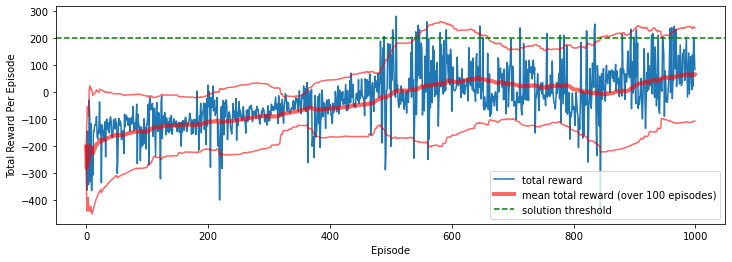
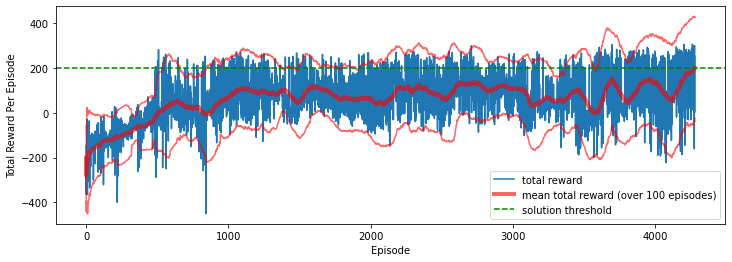
update the convergence history

diff --git a/_posts/2020-08-01-lunar-lander.md b/_posts/2020-08-01-lunar-lander.md
@@ -21,7 +21,7 @@ The code is taken from the official [PyTorch example](https://github.com/pytorch
 import gym
 import numpy as np
 from itertools import count
-from collections import deque, namedtuple
+from collections import deque
 import matplotlib.pylab as plt
 from tqdm.notebook import tnrange as trange
 import torch
@@ -63,7 +63,7 @@ print(f"Observation space size: {num_observations}, # actions: {num_actions}")
     Observation space size: 8, # actions: 4
     
 
-We define the main class, which contains the (simple) neural network that is used to approximate the policy. 
+We define the main class, which contains the (simple) neural network that is used to approximate the policy. The network won't learn unless the numbers it operates on are reasonably scaled; in our case we aim to scale the sum of the returns to be normal. As we don't know the mean and the standard deviation, we estimate it by the values we get during the training phase.
 
 
 ```python
@@ -101,18 +101,19 @@ class Policy(nn.Module):
         return action.item()
 
     def finish_episode(self):
-        R = 0
+        G = 0
         policy_loss = []
         returns = []
         for r in self.rewards[::-1]:
-            R = r + GAMMA * R
-            returns.insert(0, R)
+            G = r + GAMMA * G
+            returns.insert(0, F)
             self.num_returns += 1
-            self.sum_returns += R
-            self.sum_returns_squared += R**2
+            self.sum_returns += G
+            self.sum_returns_squared += G**2
         returns = torch.tensor(returns)
         returns_mean = self.sum_returns / self.num_returns
         returns_std_dev = np.sqrt(self.sum_returns_squared / self.num_returns - returns_mean**2)
+        #returns = (returns - returns.mean()) / (returns.std() + self.eps)
         returns = (returns - returns_mean) / (returns_std_dev + self.eps)
         
         for log_prob, R in zip(self.saved_log_probs, returns):
@@ -138,9 +139,9 @@ running_std_devs = []
 episode_lengths = []
 episode_rewards = []
 
-for i_episode in range(1, 1_001):
-    state, episode_reward = env.reset(), 0
-    for t in range(1, 10000):  # Don't infinite loop while learning
+for i_episode in range(1, 10_001):
+    state, episode_reward = env.reset(), 0.0
+    for t in range(1, 10_000):  # Don't infinite loop while learning
         action = reinforce.select_action(state)
         state, reward, done, _ = env.step(action)
         reinforce.rewards.append(reward)
@@ -165,6 +166,10 @@ for i_episode in range(1, 1_001):
     # log results
     if i_episode % LOG_INTERVAL == 0:
         print(f"Episode {i_episode}\tRunning average reward: {mean:.2f}, std dev: {std_dev:.2f}")
+
+    if mean > env.spec.reward_threshold:
+        print(f"Solved! Running reward is now {mean} and the last episode runs to {t} time steps!")
+        break
 ```
 
     Episode 100	Running average reward: -146.99, std dev: 67.67
@@ -177,9 +182,42 @@ for i_episode in range(1, 1_001):
     Episode 800	Running average reward: 12.99, std dev: 78.04
     Episode 900	Running average reward: 19.66, std dev: 108.44
     Episode 1000	Running average reward: 66.10, std dev: 88.15
+    Episode 1100	Running average reward: 108.77, std dev: 88.07
+    Episode 1200	Running average reward: 90.31, std dev: 84.93
+    Episode 1300	Running average reward: 86.01, std dev: 84.10
+    Episode 1400	Running average reward: 99.33, std dev: 48.19
+    Episode 1500	Running average reward: 50.61, std dev: 83.39
+    Episode 1600	Running average reward: 112.47, std dev: 60.89
+    Episode 1700	Running average reward: 99.22, std dev: 58.40
+    Episode 1800	Running average reward: 60.37, std dev: 73.11
+    Episode 1900	Running average reward: 58.38, std dev: 69.03
+    Episode 2000	Running average reward: 61.87, std dev: 85.73
+    Episode 2100	Running average reward: 39.67, std dev: 95.84
+    Episode 2200	Running average reward: 111.14, std dev: 93.01
+    Episode 2300	Running average reward: 98.93, std dev: 91.58
+    Episode 2400	Running average reward: 104.73, std dev: 89.01
+    Episode 2500	Running average reward: 67.08, std dev: 91.04
+    Episode 2600	Running average reward: 111.97, std dev: 95.23
+    Episode 2700	Running average reward: 128.60, std dev: 77.49
+    Episode 2800	Running average reward: 110.06, std dev: 72.48
+    Episode 2900	Running average reward: 115.01, std dev: 68.66
+    Episode 3000	Running average reward: 107.67, std dev: 58.95
+    Episode 3100	Running average reward: 80.51, std dev: 90.51
+    Episode 3200	Running average reward: 50.79, std dev: 96.64
+    Episode 3300	Running average reward: 53.30, std dev: 56.20
+    Episode 3400	Running average reward: 75.74, std dev: 83.93
+    Episode 3500	Running average reward: 67.44, std dev: 109.20
+    Episode 3600	Running average reward: 5.90, std dev: 105.01
+    Episode 3700	Running average reward: 145.90, std dev: 106.93
+    Episode 3800	Running average reward: 48.29, std dev: 93.44
+    Episode 3900	Running average reward: 127.24, std dev: 98.55
+    Episode 4000	Running average reward: 131.80, std dev: 107.16
+    Episode 4100	Running average reward: 61.85, std dev: 126.42
+    Episode 4200	Running average reward: 148.52, std dev: 119.06
+    Solved! Running reward is now 200.37813834872566 and the last episode runs to 293 time steps!
     
 
-The method converges, albeit a bit slowly, although probably a different learning rate or more nodes in the neural network would have improved the results. There is still quite some variability in the results, as seen in the picture below which reports the total rewards per episode over the 10,000 episodes, as well as the mean and the standard deviation over the last 100 episodes. The confidence interval is reported: note that the distribution isn't symmetric but rather skewed towards bad results (as expected, it's easier to make mistake than to do fantastic things by chance). This means that our policy will be generally good, but in some cases it may fail completely.
+The method converges, albeit quite slowly and with a non-monotonic convergence. Possibly a different learning rate or more nodes in the neural network would have improved the results. There is still quite some variability in the results, as seen in the picture below which reports the total rewards per episode over the 4,2000 episodes that it takes to solve the problem, as well as the mean and the standard deviation over the last 100 episodes. The confidence interval is reported: note that the distribution isn't symmetric but rather skewed towards bad results (as expected, it's easier to make mistake than to do fantastic things by chance). This means that our policy will be generally good, but in some cases it may fail completely.
 
 
 ```python
